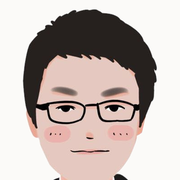
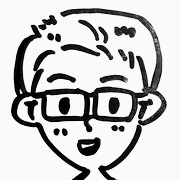
标签页图标换回 GitLink 线描头像
线描比插画版更抗缩小，缩到标签页尺寸后仍能辨认。首页头像 avatar.png
保持插画版不变，两者各用各的源图。

- favicon.png 改为 32×32：2x 屏原生显示 32px，1x 屏由浏览器降到 16px
- 线描笔画细，直接缩会被平均成灰雾，缩放前先 MinFilter(21) 加粗一档；
  apple-touch-icon 有 180px 空间，不加粗
- 背景同样填成 #fbfaf8，与站点浅色背景一致

diff --git a/README.md b/README.md
@@ -62,9 +62,9 @@ curl -s http://suyancong.gitlink.net | grep -o '<title>.*</title>'
     ├── css/main.css    全站唯一样式表（设计令牌 + 组件）
     ├── js/main.js      三件事：主题切换、导航高亮、页脚更新时间
     ├── img/
-    │   ├── avatar.png            首页头像 400×400
-    │   ├── favicon.png           浏览器标签页图标 64×64（裁紧到脸部）
-    │   └── apple-touch-icon.png  iOS 添加到主屏图标 180×180
+    │   ├── avatar.png            首页头像 400×400（插画版证件照）
+    │   ├── favicon.png           浏览器标签页图标 32×32（GitLink 线描头像）
+    │   └── apple-touch-icon.png  iOS 添加到主屏图标 180×180（同上）
     └── files/          放 PDF 全文、简历附件等
 ```
 
@@ -133,13 +133,22 @@ python3 -m http.server 8765
 
 同理，**学术兼职在 `index.html` 和 `cv.html` 里各有一份**，改一处记得同步另一处。
 
-### 换头像
+### 换头像与图标
 
-替换 `assets/img/avatar.png`（正方形，400×400 左右即可）。
-标签页图标是另外两个文件（`favicon.png` / `apple-touch-icon.png`），
-它们裁得更紧、只留脸部，这样缩到 16px 还认得出来——换头像时记得一并重做。
+**首页头像**：替换 `assets/img/avatar.png`（正方形，400×400 左右即可）。
 
-三张图的背景都是站点浅色背景 `#fbfaf8`，所以浅色主题下头像和页面是连成一片的。
+**标签页图标**：`favicon.png` / `apple-touch-icon.png` 用的是另一张源图——
+GitLink 上那张黑白线描头像，比插画版更抗缩小。两者互相独立，换其中一个不影响另一个。
+
+favicon 做成 **32×32**：2x 屏的标签页正好原生显示 32px，1x 屏由浏览器降到 16px。
+线描的笔画很细，直接缩会被平均成灰雾，所以缩放前先用 `MinFilter(21)` 把黑线加粗一档
+（`apple-touch-icon` 有 180px 空间，不需要加粗）。16px 下依然偏软，这是线描本身的限制，
+换素材时别指望调参数能解决。
+
+三张图的背景都填成站点浅色背景 `#fbfaf8`，所以浅色主题下头像和页面是连成一片的。
+
+> 换完图标后浏览器多半还显示旧的——favicon 缓存比普通资源顽固得多，
+> 硬刷新（`Cmd+Shift+R`）或换个标签页打开才看得到。
 
 ### 配色与排版
 
